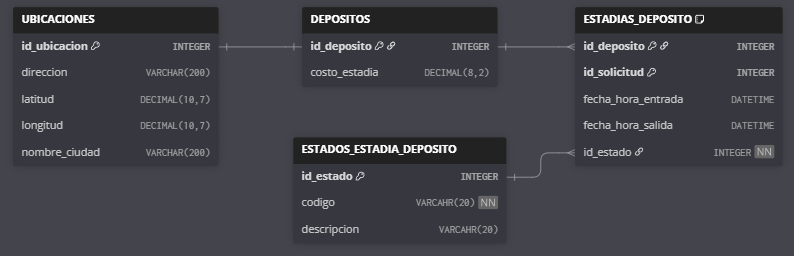
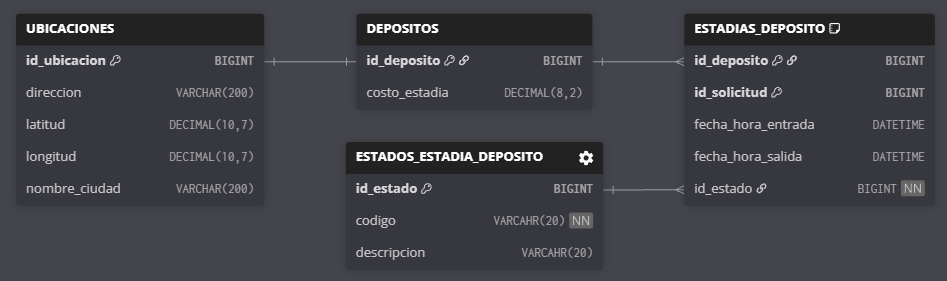
actualizacion completa README

diff --git a/README.md b/README.md
@@ -12,23 +12,21 @@ Jefe de Cátedra: Felipe Steffolani
 
 ## 📌 **Descripción General del Sistema**
 
-Este proyecto implementa el backend de un sistema de logística para el traslado terrestre de contenedores utilizados en construcción.
-El sistema permite gestionar:
+Este proyecto corresponde a un Trabajo Práctico Integrador, cuyo objetivo es diseñar e implementar un sistema backend basado en microservicios que modele un escenario realista de gestión de transporte de carga.
 
-* Solicitudes de transporte
-* Rutas y tramos
-* Camiones y transportistas
-* Depósitos y estadías
-* Cálculo estimado y real de costos y tiempos
-* Seguimiento del estado del contenedor en todas sus etapas
+El sistema aborda el ciclo completo del negocio, incluyendo la creación de solicitudes de transporte, la asignación de rutas y camiones, la gestión de tramos, el cálculo de tarifas y el seguimiento de estados, aplicando criterios de separación de responsabilidades y comunicación entre servicios.
 
-La solución está diseñada siguiendo arquitectura de **microservicios**, separación de responsabilidades y principios de **Domain-Driven Design (DDD)**.
+La solución está implementada utilizando Spring Boot y una arquitectura de microservicios que incluye API Gateway, Service Discovery, comunicación asincrónica mediante eventos, bases de datos independientes por servicio, cálculo de rutas mediante OSRM y autenticación centralizada con Keycloak. El despliegue completo se realiza mediante Docker, permitiendo levantar el entorno de forma reproducible y sin configuraciones manuales complejas.
+
+El proyecto incluye datos precargados, documentación de la API mediante Swagger y flujos de prueba a través de una colección de Postman.
+
+> 📄 El enunciado completo del trabajo práctico y la coleccion de Postman se encuentran disponibles en la carpeta docs/
 
 ---
 
 # 🧩 **MICROSERVICIOS**
 
-La arquitectura se divide en cuatro microservicios principales:
+La arquitectura se divide en cinco microservicios principales:
 
 ---
 
@@ -42,17 +40,9 @@ La arquitectura se divide en cuatro microservicios principales:
 * Registrar costo final y tiempo real
 * Proveer información para el seguimiento del envío
 
-**Entidades:**
-
-* SOLICITUDES
-* ESTADOS_SOLICITUD
-* CONTENEDORES
-* HISTORIALES_ESTADO_CONTENEDOR
-* ESTADOS_CONTENEDOR
-
 **Diagrama Entidad-Relación:**
 
-![DER Depositos](docs/DerMsSolicitudes.png)
+![DER ServicioSolicitudes](docs/DerMsSolicitudes.png)
 ---
 
 ## **2⃣ ServicioRutas**
@@ -64,38 +54,25 @@ La arquitectura se divide en cuatro microservicios principales:
 * Estimar costos y tiempos
 * Registrar tramos estimados y reales
 * Asignar camiones a tramos
-
-**Entidades:**
-
-* RUTAS
-* TRAMOS
-* TRAMOS_X_RUTAS
-* ESTADOS_TRAMO_RUTA
-* TARIFAS
+* Iniciar y finalizar tramos
+* Calcular detalle de costos
 
 **Diagrama Entidad-Relación:**
 
-![DER Depositos](docs/DerMsRutas.png)
+![DER ServicioRutas](docs/DerMsRutas.png)
 ---
 
 ## **3⃣ ServicioDepositos**
 
 **Responsable de:**
 
-* Registrar depósitos y sus ubicaciones
+* Registrar depósitos y ubicaciones
 * Gestionar estadías de contenedores
 * Identificar qué contenedores se encuentran en cada depósito
 
-**Entidades:**
-
-* UBICACIONES
-* DEPOSITOS
-* ESTADIAS_DEPOSITO
-* ESTADOS_ESTADIA_DEPOSITO
-
 **Diagrama Entidad-Relación:**
 
-![DER Depositos](docs/DerMsDepositos.png)
+![DER ServicioDepositos](docs/DerMsDepositos.png)
 ---
 
 ## **4⃣ ServicioPersonas**
@@ -104,18 +81,23 @@ La arquitectura se divide en cuatro microservicios principales:
 
 * Registrar clientes y transportistas
 * Gestionar camiones y su disponibilidad
-* Validar capacidad de carga por peso y volumen
-
-**Entidades:**
-
-* PERSONAS
-* CLIENTES
-* TRANSPORTISTAS
-* CAMIONES
 
 **Diagrama Entidad-Relación:**
 
-![DER Depositos](docs/DerMsPersonas.png)
+![DER ServicioPersonas](docs/DerMsPersonas.png)
+---
+
+## **5⃣ ServicioTarifas**
+
+**Responsable de:**
+
+* Gestionar tarifas
+* Proveer parametros globales para el cálculo de costos de gestión
+
+**Diagrama Entidad-Relación:**
+
+![DER ServicioTarifas](docs/DerMsTarifas.png)
+> CAMIONES_VIEW corresponde a una vista utilizada para el cálculo de tarifas, derivada de información del ServicioPersonas.
 ---
 
 # 🔐 **Seguridad**
@@ -126,7 +108,7 @@ La aplicación utiliza:
 * **Tokens JWT** para asegurar cada endpoint
 * **Roles principales:** Cliente, Operador y Transportista
 
-Cada microservicio valida los permisos según el rol del usuario autenticado.
+Cada microservicio valida JWT de forma independiente siguiendo el principio Zero Trust.
 
 ---
 
@@ -149,6 +131,10 @@ El sistema se integra con **OSRM (Open Source Routing Machine)** para obtener:
 * Docker / Docker Compose
 * Keycloak
 * PostgreSQL
+* Eureka
+* OSRM
+* Kafka
+* MapStruct
 
 ---
 
@@ -159,7 +145,6 @@ Cada microservicio sigue la arquitectura:
 ```
 controller/
 service/
-    base/
     interfaces/
     impl/
 repository/
@@ -168,7 +153,118 @@ config/
 model/
 dto/
 mapper/
+workflow/
+exception/
 ```
+
+### 🔌 Comunicación por Eventos (Kafka)
+
+Algunos microservicios incorporan componentes adicionales para la comunicación asincrónica mediante eventos:
+
+- **ServicioPersonas**
+  - `infrastructure/messaging/`: productores de eventos
+  - `event/`: definición de eventos de dominio publicados
+
+- **ServicioTarifas**
+  - `listener/`: consumidores de eventos
+  - `event/`: definición de eventos de dominio recibidos
+
+---
+
+## 🚀 Cómo levantar el proyecto
+
+El proyecto se encuentra completamente **dockerizado**, por lo que no requiere configuraciones manuales adicionales para su ejecución básica.
+
+### 🔧 Requisitos previos
+
+* Docker
+* Docker Compose
+
+---
+
+### ▶ Ejecución
+
+Desde la raíz del proyecto, ejecutar:
+
+```bash
+docker compose up --build
+```
+
+Esto levantará:
+
+* API Gateway
+* Eureka Server
+* Microservicios del dominio
+* Bases de datos PostgreSQL por microservicio
+* Keycloak para autenticación
+* Kafka para mensajería asincrónica
+
+> El proyecto incluye **Keycloak configurado en Docker** para la gestión de autenticación y autorización. La configuración necesaria (realm, clientes y roles) se encuentra preparada para el entorno de desarrollo.
+
+---
+
+## 🗺 OSRM (opcional)
+El sistema puede ejecutarse sin OSRM.
+Solo es necesario si se desea calcular nuevas rutas.
+
+### Instalación opcional
+```bash
+chmod +x scripts/*.sh
+./scripts/osrm-generate.sh
+docker compose --profile osrm up -d
+```
+
+⏱ Tiempo estimado: 40 - 50 minutos
+💾 Espacio requerido: ~3 GB
+
+---
+
+## 📬 Colección de Postman
+
+La coleccion de Postman incluye los **endpoints más relevantes del sistema**, orientada a demostrar el **flujo principal del negocio (Happy Path)** y las operaciones de seguimiento.
+
+Dado que cada operación requiere un rol distinto, es necesario **obtener un token de acceso antes de cada llamada**, utilizando el usuario correspondiente.
+
+Para facilitar la prueba del sistema, se encuentran usuarios de ejemplo precargados, cuyas credenciales coinciden con su rol:
+
+* Cliente
+
+  * Usuario: cliente
+
+  * Contraseña: cliente
+
+* Operador
+
+  * Usuario: operador
+
+  * Contraseña: operador
+
+* Transportista
+
+  * Usuario: transportista
+
+  * Contraseña: transportista
+
+---
+
+### 🔁 Endpoints incluidos en la colección
+
+| Método | Endpoint                                           | Descripción                                                   | Rol Autorizado | Datos de Entrada                                            | Respuesta                                      |
+| ------ | -------------------------------------------------- | ------------------------------------------------------------- | -------------- | ----------------------------------------------------------- | ---------------------------------------------- |
+| POST   | `/api/solicitudes`                                 | Crea una nueva solicitud de transporte                        | Cliente        | Ubicacion de Origen, Ubicacion de Destino, Datos del Contenedor y Datos del Cliente | 201 Created |
+| GET    | `/api/rutas/tentativas`                            | Consulta rutas tentativas y estimaciones utilizando OSRM      | Operador       | Coordenadas de origen y destino y costos tarifarios         | 200 OK + Lista de rutas con distancia y tiempo estimado |
+| POST   | `/api/rutas`                                       | Asigna una ruta seleccionada a una solicitud                  | Operador       | Identificador de solicitud y ruta                           | 201 Created              |
+| PATCH  | `/api/tramos/{idRuta}/{ordenTramo}/asignar-camion` | Asigna un camión a un tramo específico                        | Operador       | Datos del Camion y del Contenedor                           | 204 No Content              |
+| PATCH  | `/api/tramos/{idRuta}/{ordenTramo}/iniciar`        | Inicia la ejecución de un tramo                               | Transportista  | —                                                           | 204 No Content              |
+| PATCH  | `/api/tramos/{idRuta}/{ordenTramo}/finalizar`      | Finaliza la ejecución de un tramo                             | Transportista  | —                                                           | 204 No Content              |
+| GET    | `/api/contenedores/{idContenedor}/estados`         | Consulta el seguimiento y estados históricos de un contenedor | Cliente        | —                                                           | 200 OK + Historial de estados              |
+| GET    | `/api/solicitudes/{idSolicitud}`                   | Consulta la información de una Solicitud                      | Cliente y Operador | —                                                           | 200 OK + Solicitud              |
+| GET    | `/api/rutas/{idRuta}`                              | Consulta la información de una Ruta                           | Cliente y Operador | —                                                           | 200 OK + Ruta              |
+| GET    | `/api/rutas/{idRuta}/costos`                       | Consulta el detalle de los costos de una Ruta y sus Tramos    | Cliente        | —                                                           | 200 OK + Detalle de costos               |
+
+---
+
+> La documentación completa de la API, incluyendo todos los endpoints disponibles, se encuentra accesible mediante **Swagger**.
 
 ---
 
@@ -184,16 +280,5 @@ La solución se diseñó respetando:
 
 ---
 
-# 📝 **Comentarios Generales del Modelo**
-
-* **Cada contenedor puede tener únicamente una solicitud activa.**
-
-* **Cada solicitud tiene asignada exactamente una ruta.**
-  Una vez elegida la ruta definitiva, queda vinculada a esa solicitud.
-
-* **Cada ruta pertenece únicamente a una solicitud.**
-  No se reutilizan rutas entre solicitudes.
-
-* **Si un cliente desea transportar varios contenedores**,
-  deberá generar **una solicitud por contenedor**, incluso si todos realizan el mismo recorrido.
-  Cada solicitud tendrá su propia ruta independiente.
+# 👨💻 Autor
+Ayrton Vanega
